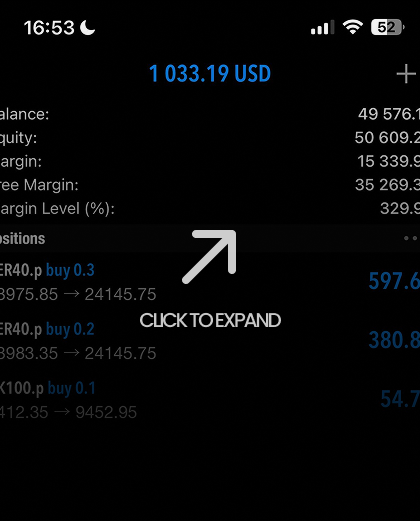
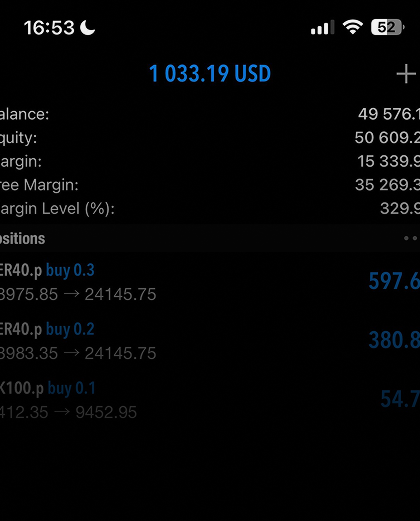
new updates

Changed region(s): [[0.3405, 0.5835, 0.681, 0.6449], [0.4333, 0.4299, 0.5881, 0.5528]]

diff --git a/app/components/pages/home/TradingHistory.tsx b/app/components/pages/home/TradingHistory.tsx
@@ -1,5 +1,10 @@
 import Headings from "../../headings"
 import SectionContainer from "../../SectionContainer"
+import Image from "next/image"
+
+
+const trades = [
+  "/e1.png", "/e12.png", "/e11.png", "/e10.png", "/e9.png"]
 
 const TradingHistory = () => {
   return (
@@ -20,6 +25,9 @@ const TradingHistory = () => {
               <p className="jost font-normal text-[25px] text-[#FAFAFA]/90 leading-[120%] tracking-[-4%]">Video testimonials. Portfolio screenshots. Real numbers. The members who got in early are writing the stories — here&apos;s a sample.</p>
             </div>
           </div>
+        </div>
+        <div className="grid md:grid-cols-3">
+          {trades.map((trade) => <Image alt={trade} src={trade} fill key={trade} />)}
         </div>
       </div>
     </SectionContainer>
